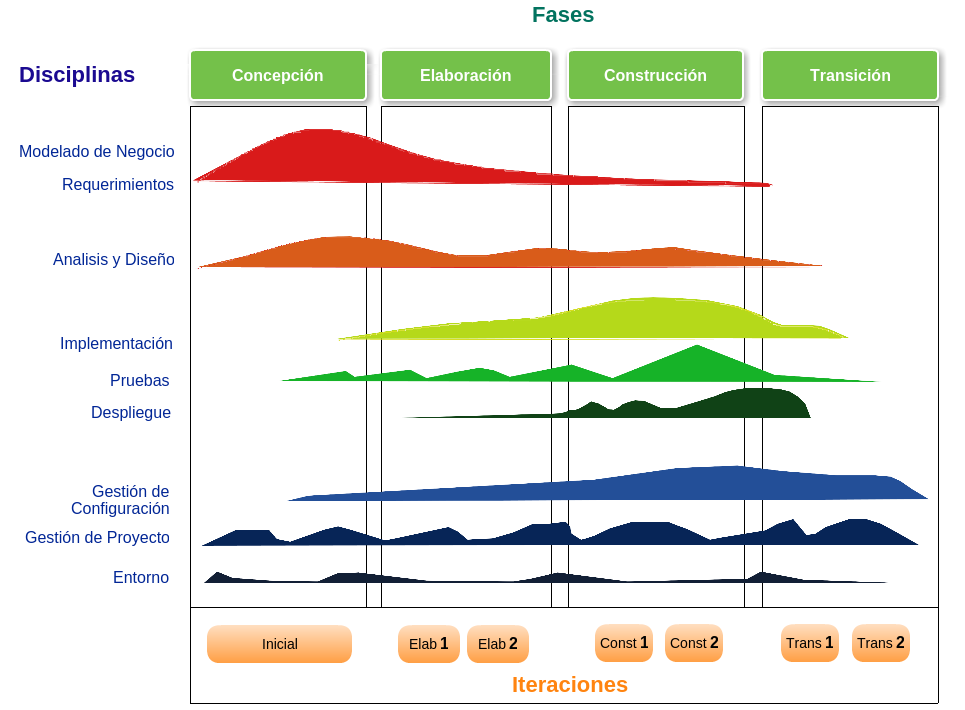
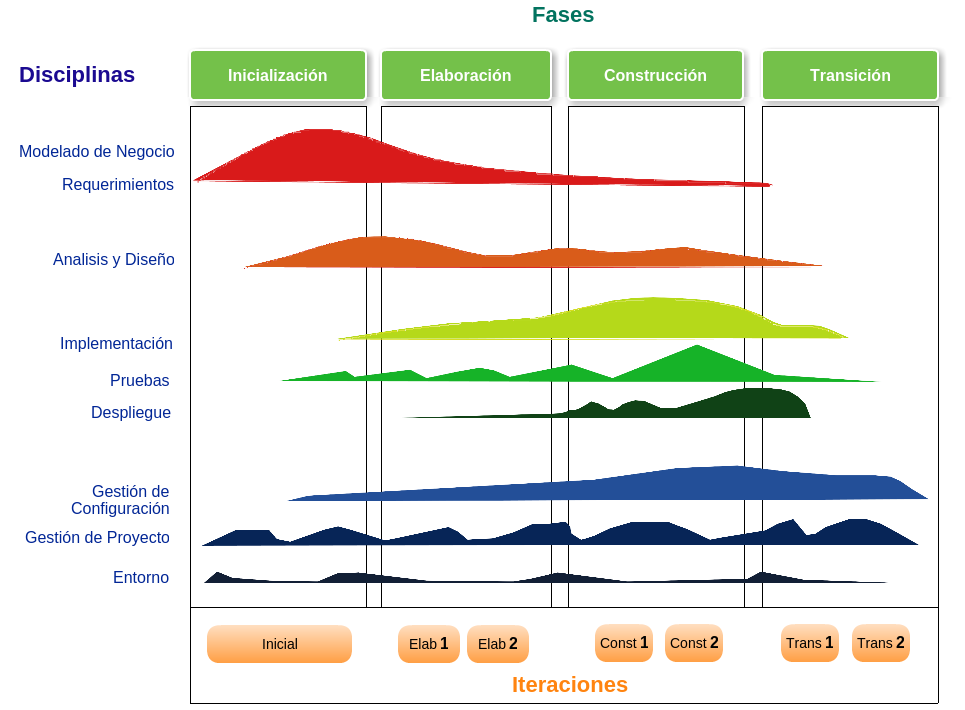
defined the requerements for security

diff --git a/document/cap3.tex b/document/cap3.tex
@@ -1,18 +1,80 @@
-\chapter{Concepción}
-\noindent En este capítulo se pretende describir el caso de estudio, los requerimientos funcionales, requerimientos técnicos, criterios de aceptación del entregable de esta iteración y la aplicación de la metodología 12 factor en las diferentes fases de Proceso Unificado Ágil-AUP.
+\chapter{Iniciación}
+\noindent En el presente capítulo se pretende describir el caso de estudio, los requerimientos funcionales, casos de uso y aspectos tecnicos.
 
-\section{Concepción}
-\noindent El objetivo de esta fase es obtener una máxima compresión cliente - equipo de desarrollo. Los requerimientos funcionales, el alcance del software a desarrollar (criterios de aceptación) y la definición de la arquitectura de la aplicación.
+\noindent El objetivo de esta fase en el Proceso Unificado Ágil, es obtener una máxima compresión cliente - equipo de desarrollo. Los requerimientos funcionales, el alcance del software a desarrollar (criterios de aceptación).
 
-\subsection {Modelado de Negocio}
+\section {Visual General - Caso de estudio}
 \noindent Las empresas que ofrecen servicio de pedidos a domicilio a través de motorizados (mototaxis) en su mayor parte administran su negocio por medio de archivos Excel por lo cual tienen muchas limitaciones.
-Entre las actividades administrativas que se realizan en este tipo de empresa es la siguiente:
-\begin {itemize}
-\item Registro de pedidos que se realizan a diario.
-\item Registro y cobro de multas de inasistencia a los 	motorizados.
-\item Registro y cobro por frecuenta a los motorizados.
-\item La asignación de pedidos a los respectivos 	motorizados.
+Para conocer el negocio y las respectivas actividades que realizan, se entrevistó a dos empresas de este rubro (Scooters, Ser). El flujo de trabajo desde que les llega el pedido consiste en:
+\begin{itemize}
+\item El encargo de recibir los pedidos, por cada pedido que llega, comunica a todos los motorizados por radio frecuencia.
+\item Cada empresa tiene parqueos en los diferentes negocios de comidas en la mayoría y de acuerdo al orden de llegada tiene prioridad para que sean asignados a ese pedido.
+\item En la mayor parte se tiene el siguiente caso para asignar un pedido. El pedido llega de algún restaurante o negocio de comidas o de cliente directo que quiere el pedido. Por decir, el restaurante de donde se debe recoger el pedido, la empresa de mototaxis no tiene parqueo por lo cual se debe ir preguntando quién quiere tomar el pedido, entonces los motorizados se reportan y dan su ubicación y si están disponibles y se ponen de acuerdo entre ellos quién podría tomar el pedido ya que se puede tener más de dos motorizados que quieran tomar ese pedido.
 \end{itemize}
-\section{Elaboración}
-\section{Construcción}
-\section{Transición}
+\indent Entre otras actividades administrativas dentro de las empresas de mototaxis:
+\begin{itemize}
+\item Cada motorizado debe pagar diariamente un monto por frecuencia recibida. en el transcurso del día deben reportarse en su central para iniciar su trabajo.
+\item La empresa establece una multa diaria por inasistencia a todos los motorizados y se les recarga al momento que se reportan.
+\item Al final del día (entre la 12:00 am), el encargado de la central realiza su informe de ingresos por frecuencia, cobro de multas y motorizados que no asistieron a trabajar.
+\end{itemize}
+\section{Identificación de requerimientos}
+\noindent La identificación de requerimientos se basará en las actividades que realizan las empresas del rubro de servicios en mototaxis contemplando los siguientes escenarios principales para el desarrollo de la aplicación web (Software como un servicio - SaaS):
+\begin{itemize}
+\item \textbf{Administración de Pedidos}: Los operadores deben poder registrar los pedidos realizados por los clientes y asignar al motorizado que le corresponde.
+\item \textbf {Administración de Mototaxis}: Los operadores deberán poder registrar, actualizar información o deshabilitar a los respectivos motorizados de la empresa. También podrán registrar el pago por frecuencia diaria o las multas por inasistencia.  
+\item \textbf{Administración de usuarios}: Cada Empresa de mototaxis solo podrá tener una cuenta administrador y  varias cuentas de operadores.
+\item \textbf{Administración de Seguridad}: El acceso a la información y las diferentes operaciones que puedan realizar los usuarios deberán ser controlados bajo perfiles de usuarios (administrador de la empresa y operadores).
+\end{itemize}
+
+\section{Requerimientos funcionales}
+
+\noindent Los requerimientos funcionales fueron agrupados de acuerdo a las áreas de administración detectadas en común en las empresas y también se consideró la definición de la administración de seguridad que tiene que ver más con la aplicación web.
+
+%%%test tables
+\begin{table}[H]
+	\centering
+    \begin{tabular}{ |c|p{10cm}|c| }
+	  \hline
+	  \rowcolor{indigo-dark} \multicolumn{3}{|c|}{ \textcolor{white}{\textbf{Administración de Seguridad}}} \\
+	  \hline
+	  \rowcolor{indigo-light} \textbf{N\#} & \centering \textbf{Descripción} & \textbf{Prioridad} \\
+	  \hline
+	  1 & La aplicación web deberá controlar el acceso a la información a través de la autentificación de usuarios y mostrará el menú de operaciones que puede realizar el usuario de acuerdo al perfil de usuario (Administrador u Operador). & Alta\\
+	  \hline
+	  2 & La aplicación web deberá controlar las operaciones de acuerdo al tipo de perfil  de usuario que define por cada operación en los recursos de información con los accesos de (lectura, escritura, eliminación y/o actualización). & Alta\\
+	  \hline
+	  3 & La aplicación web deberá permitir crear una cuenta empresa en conjunto con la cuenta administrador. & Media \\
+	  \hline
+	  5 & La aplicación web deberá proporcionar las opciones de iniciar sesión y cerrar session. &  Media\\
+	  \hline
+	  4 & La aplicación web deberá permitir a los usuarios cambiar contraseña. &  Baja \\
+	  \hline
+	\end{tabular}
+	\caption{Requerimientos del modulo de Seguridad}
+\end{table}
+
+\begin{table}[H]
+	\centering
+    \begin{tabular}{ |c|p{10cm}|c| }
+	  \hline
+	  \rowcolor{indigo-dark} \multicolumn{3}{|c|}{ \textcolor{white}{\textbf{Administración de Seguridad}}} \\
+	  \hline
+	  \rowcolor{indigo-light} \textbf{N\#} & \centering \textbf{Descripción} & \textbf{Prioridad} \\
+	  \hline
+	  1 & La aplicación web deberá controlar el acceso a la información a través de la autentificación de usuarios y mostrará el menú de operaciones que puede realizar el usuario de acuerdo al perfil de usuario (Administrador u Operador). & Alta\\
+	  \hline
+	  2 & La aplicación web deberá controlar las operaciones de acuerdo al tipo de perfil  de usuario que define por cada operación en los recursos de información con los accesos de (lectura, escritura, eliminación y/o actualización). & Alta\\
+	  \hline
+	  3 & La aplicación web deberá permitir crear una cuenta empresa en conjunto con la cuenta administrador. & Media \\
+	  \hline
+	  5 & La aplicación web deberá proporcionar las opciones de iniciar sesión y cerrar session. &  Media\\
+	  \hline
+	  4 & La aplicación web deberá permitir a los usuarios cambiar contraseña. &  Baja \\
+	  \hline
+	\end{tabular}
+	\caption{Requerimientos del modulo de Seguridad}
+\end{table}
+%%% End test
+
+\section{Especificación casos de uso}
+\noindent testing test.

diff --git a/document/cap2.tex b/document/cap2.tex
@@ -1,5 +1,7 @@
-\chapter{Factores a considerar en el desarrollo de software}
-\noindent El desarrollo de software puede tener altos niveles de complejidad, mucho va ha depender del tipo de software que se quiere desarrollar, el modelo de negocio al cual está enfocado, la precisión en las funcionalidades del software, los tiempos de respuesta, la usabilidad para los usuarios finales.
+\chapter{Marco teórico}
+\noindent En el presente capítulo se conceptualizan términos relacionados al Desarrollo de software y que irán utilizando en los capítulos posteriores.
+
+\section{Ingeniería de software}
 \noindent La ingeniería de software está enfocado a desarrollo de software, por lo cual es necesario tomarlo en cuenta. Según [Roger S. Pressman, 2010] “La ingeniería de software abarca un proceso, una colección de métodos (práctica) y una gran variedad de herramientas que permiten a los profesionales construir software de alta calidad.”
 
 
@@ -11,7 +13,7 @@
   \item Especificación del Software: Donde los clientes y personas involucradas definen los requerimientos y sus restricciones del  Software.
   \item Desarrollo del Software: Donde el software se diseña y construye.
   \item Validación del Software: Donde se valida de que el software desarrollado cumple con las exigencias y expectativas del cliente.
-  \item Evolución del Software: Donde el software tiene a cambiar y adaptarse a los nuevos requerimientos del cliente.
+  \item Evolución del Software: Donde el software tiende a cambiar y adaptarse a los nuevos requerimientos del cliente.
 \end{itemize}
 
 \begin{figure}[ht]
@@ -101,4 +103,22 @@ Para reducir el costo y la dificultad de mantenimiento de un software, se debe t
 \end{itemize}
 
 \section{Ambientes de ejecución}
-\noindent in progress
+\noindent Los entornos de ejecución para producción, son muy importantes para la ejecución del producto software. Con buenas características de hardware, los servidores pueden mejorar el rendimiento y tiempos de respuesta de las interacciones de los usuarios con el software. Se puede tener diferentes opciones para tener ambientes de ejecución.
+
+\subsection{Servidores Propios}
+\noindent La ventaja de tener servidores propios, la administración es de forma directa. Tener servidores propios hacen que se eleven los costos del producto de las siguientes maneras:
+\begin{itemize}
+\item Costos de instalación del servidor, donde se ejecuta el software para producción. Dependiendo a las características de hardware y el rendimiento que se quiere tener este costo puede elevarse. En el caso de que es un nuevo software y se desconoce el crecimiento de usuarios con el tiempo, se puede dar que se instala un servidor con buenas características de hardware pero la inversión no rinde con el número de usuarios que podrían ser menos de los planificado. Se puede tener el otro caso, se invierte en lo mínimo en características de hardware para que inicie el software. pero con el tiempo el número de usuarios incrementa de tal forma que es necesario incrementar las características de hardware lo cual hace que se invierta nuevamente en hardware.
+\item Costos de ambientes donde se instalará los servidores, lo cual ocupa un espacio.
+\item Costos de mantenimiento y monitoreo de los servidores. 
+\end{itemize}
+
+\subsection{Servicios en la Nube} 
+\noindent La tendencia de usar servicios en la nube, que proporcionen entornos virtuales de ejecución con las características necesarias es una buena opción con las siguientes ventajas:
+\begin{itemize}
+\item los servicios en la nube que proporcionan entornos de ejecución dan la opción de planes de servicios. Si la aplicación está iniciando y se desconoce el crecimiento en el mercado, se puede elegir un plan mínimo para iniciar. Con el tiempo se puede analizar y ver si es necesario incrementar los rendimientos en cuanto al número de usuarios, lo único que se haria seria cambiar de plan.
+\item La administración de los entornos de ejecución se reducen a monitorear la aplicación. El rendimiento que se tiene respecto a las interacciones de los usuarios.
+\end{itemize}
+
+\noindent En este capítulo se enfoca en enfatizar los factores que se deben considerar en el desarrollo de software hasta la puesta en producción del producto desarrollado. Al inicio del desarrollo se debe conocer las expectativas que tienen los clientes respecto al producto que se quiere desarrollar, de tal forma que el equipo de desarrollo direccione lo necesario para cumplir con las expectativas. La comunicación cliente - equipo de desarrollo debe ser lo más fluida posible.
+\noindent El proceso de desarrollo debe iniciar con lo básico necesario, pero no debe ser impuesta sino debe ir adaptándose según las necesidades que se van teniendo en el transcurso del desarrollo. 

diff --git a/document/cap1.tex b/document/cap1.tex
@@ -20,7 +20,7 @@
 
 \subsection{Objetivo General}
 
-\noindent Plantear un modelo de desarrollo de software de tal forma que se optimicen los recursos necesarios que pueden influir en el precio para los clientes. 
+\noindent Implementar un Software como un servicio, optimizando los recursos en el proceso de desarrollo del software. 
 
 
 \subsection{Objetivos Específicos}
@@ -80,7 +80,7 @@
 \noindent La metodología AUP define las siguientes etapas:
 
 \begin{itemize}
-  \item \textit{Concepción:} Identificación del alcance del proyecto, definir una potencial arquitectura.
+  \item \textit{Inicialización:} Identificación del alcance del proyecto, definir una potencial arquitectura.
   \item \textit{Elaboración:} Proveer una arquitectura más clara del software.
   \item \textit{Construcción:} Implementación del software basados en las características de prioridad alta para los inversionistas. 
   \item \textit{Transición:} La validación de software y la puesta en ejecución en los ambientes de producción.
@@ -88,7 +88,7 @@
 
 \noindent Principios de la metodología AUP:
 \begin{itemize}
-  \item \textit{Modelo:} Compresión de las reglas de negocio, plantear diseños de solución para los problemas de dominio.
+  \item \textit{Modelo:} Comprensión de las reglas de negocio, plantear diseños de solución para los problemas de dominio.
   \item \textit{Implementación:} transformar los modelos, diseños en código y ejecutar un básico nivel de pruebas (pruebas de unidad).
   \item \textit{Pruebas:} Realización de evaluaciones para asegurar la calidad del producto.
   \item \textit{Puesta en ejecución:} desplegar el software en los ambientes de producción y que esté disponible para los usuarios finales.
@@ -111,7 +111,7 @@
 
 \begin{figure}[ht]
   \centering
-  \includegraphics[width=15cm, height=6cm]{chapter1-model-process-development.png}
+  \includegraphics[width=12cm, height=6cm]{chapter1-model-process-development.png}
   \caption{Automatización de procesos, desde la preparación de ambientes de desarrollo, validacion de cambios en el codigo base y despliegue de los cambios en los ambientes de ejecucion (Elaboración propia)}  
 \end{figure}
 \noindent Tener tareas automatizadas en el proceso de desarrollo del software como ser: preparación de entornos de desarrollo para nuevos desarrolladores, validación de nuevas caracteristicas o arreglo de errores, introducida al codigo base. Verificando si se esta siguiendo el codigo estandard definida por el equipo de desarrollo, ejecución de test unitarios y de integracion, generacion de ejecutables y la puesta en ejecucion. Aceleran el proceso desarrollo del software y aseguran que los cambios introduciodos al codigo base, sean de incremento de tal forma que las nuevas caracteristicas no afecten a las anteriores.

diff --git a/document/document.tex b/document/document.tex
@@ -4,7 +4,7 @@
 
 \documentclass[11pt]{report}
 \usepackage[utf8]{inputenc}
-\usepackage[spanish]{babel}
+\usepackage[spanish,es-tabla]{babel}
 \inputencoding{utf8}
 \usepackage{ragged2e}
 \usepackage{graphicx}% Include figure files
@@ -21,6 +21,7 @@
 \usepackage{amssymb}
 \usepackage{listings} % para los listados de código fuente
 \usepackage{anysize} % Permite emplear cualquier medida de márgenes.
+\usepackage[table]{xcolor} % table colors
 \marginsize{3cm}{2cm}{2cm}{3cm}% Controla los márgenes {izquierda}{derecha}{arriba}{abajo}.
 
 \parindent=1.5cm
@@ -34,7 +35,9 @@
 \newtheorem{ejem}{Listado}
 \newtheorem{teor}{Teorema}
 \newtheorem{defi}{Definición}
-
+\renewcommand{\arraystretch}{1.5} %space between rows in the table
+\definecolor{indigo-dark}{HTML}{1A237E} %primary color title in the table
+\definecolor{indigo-light}{HTML}{9FA8DA} %secondary color title in the table
 \begin{document}
 
 \justify
@@ -46,17 +49,17 @@
 %\include{resumen} % hacer la ficha resumen al final
 \tableofcontents
 
-\newpage
-\listoffigures
 %\newpage
-\listoftables
+%\listoffigures
+%\newpage
+%\listoftables
 
-\newpage
+%\newpage
 \pagenumbering{arabic} \setcounter{page}{1}
 
 %\include{cap1} % este capítulo se hará en base al perfil,
 %\include{cap2} % lo que se llama el marco teórico, es un sistema de conceptos
-%\include{cap3}
+\include{cap3}
 %\include{cap4}
 %\include{cap5}
 %\include{Pruebas y/o experimentación}
